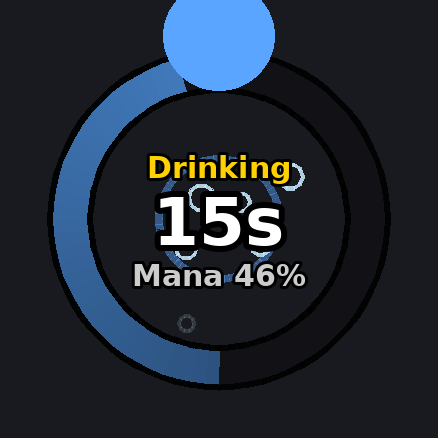
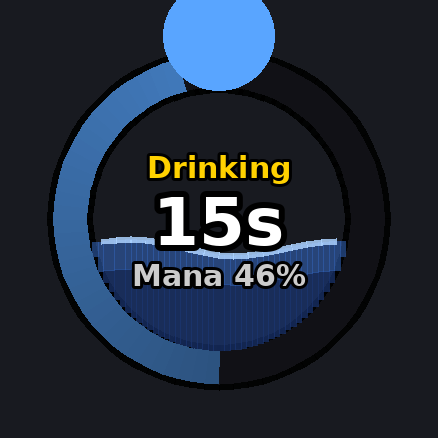
Food & Drink ring: drinking fills the ring with water instead of bubbles
Claude-Session: https://claude.ai/code/session_01TmUGSp4zKBVxubkMh5uEjW

diff --git a/tests/food_test.py b/tests/food_test.py
@@ -21,10 +21,10 @@ function T(f) local t = {} for _, g in ipairs(ALL_FS) do if g._parent == f and g
 function Ring() for _, f in ipairs(allFrames) do if f.editHint and f._shown and T(f):match("ating") or (f.editHint and f._shown and T(f):match("rinking")) then return f end end end
 -- What's animating: crumbs (square textures), bubbles (frames with lines + glint), ripple lines.
 function Fx()
-  local crumbs, bubbles = 0, 0
-  for _, f in ipairs(allFrames) do if f.lines and f.glint and f._shown and f._parent and f._parent.editHint then bubbles = bubbles + 1 end end
+  local water = 0
   local r = Ring()
-  return "bubbles=" .. bubbles
+  for _, l in ipairs(ALL_LINES) do if r and l._parent == r and l._layer == "BORDER" and l._shown then water = water + 1 end end
+  return "water=" .. (water > 0 and "yes" or "no")
 end
 function C() local f = Ring() return f and T(f) or "(hidden)" end
 

diff --git a/CHANGELOG.md b/CHANGELOG.md
@@ -4,8 +4,8 @@
 
 - **Food & Drink ring** (new; on by default). While you eat or drink, the ring fills with your
   health or mana (whichever is further from full when you do both), counts down the buff and
-  bursts when you're full. Eating throws crumbs off the ring with every bite; drinking sends
-  bubbles up through it and a ripple out with every gulp (Food & Drink > Animations). Preview
+  bursts when you're full. Eating throws crumbs off the ring with every bite; drinking fills
+  its middle with water that rises with your mana and sloshes with every gulp (Food & Drink > Animations). Preview
   with `/circ food`.
 - **Removed: follow what you're interacting with.** The cast ring no longer moves onto the
   chest or quest object you're using (it didn't work reliably), and `/circ follow` is gone. Interaction

diff --git a/README.md b/README.md
@@ -40,7 +40,8 @@ then fade away, or stay up as a permanent display.
 
 **Food and drink**
 - **Eating and drinking**: health or mana filling back up and the buff counting down, bursting
-  when you're full. Crumbs fly with every bite; bubbles rise and a ripple rolls out with every gulp.
+  when you're full. Crumbs fly with every bite; while drinking, water fills the
+  ring and sloshes with every gulp.
 
 **Death and breath**
 - **Corpse run**: distance to your body, an arrow pointing to it, and when you can resurrect.

diff --git a/docs/curseforge.md b/docs/curseforge.md
@@ -27,7 +27,7 @@ around the minimap.
 - **Corpse runs**: distance to your body, an arrow pointing to it, and when you can resurrect.
 - **Breath**, fatigue and Feign Death, with bubbles.
 - **Food & drink**: health or mana refilling as you eat or drink, with crumbs flying off every
-  bite and bubbles and ripples with every gulp.
+  bite and water rising in the ring as you drink.
 - **Pet XP** (hunters), **timed quests**, and **totems** (shamans): one small ring per element.
 
 ## Make them yours
